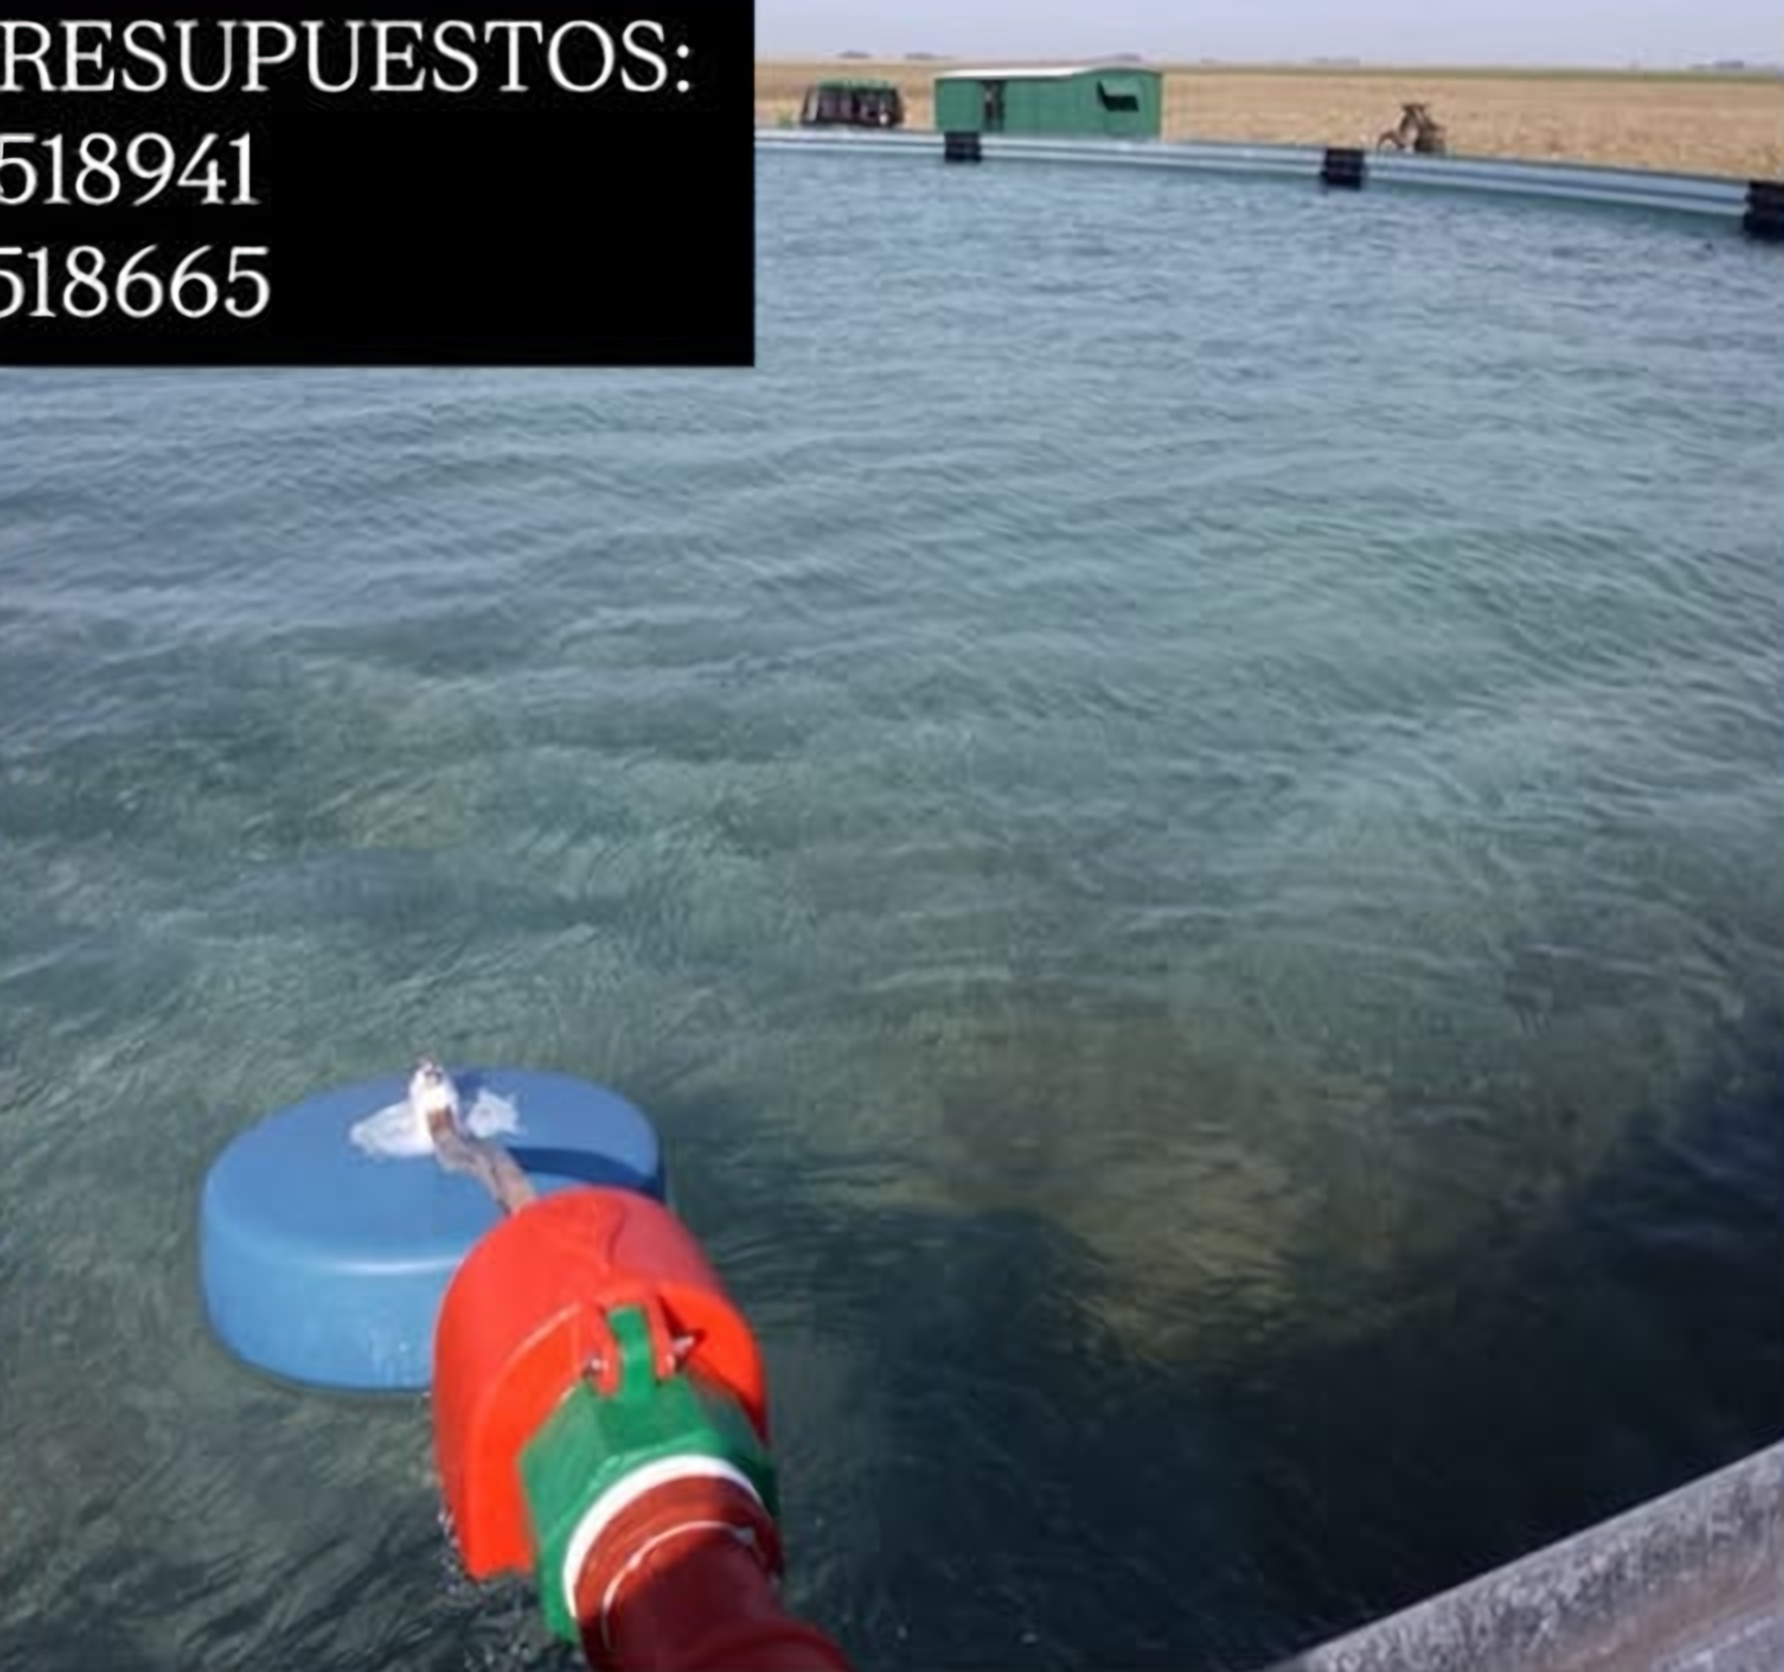
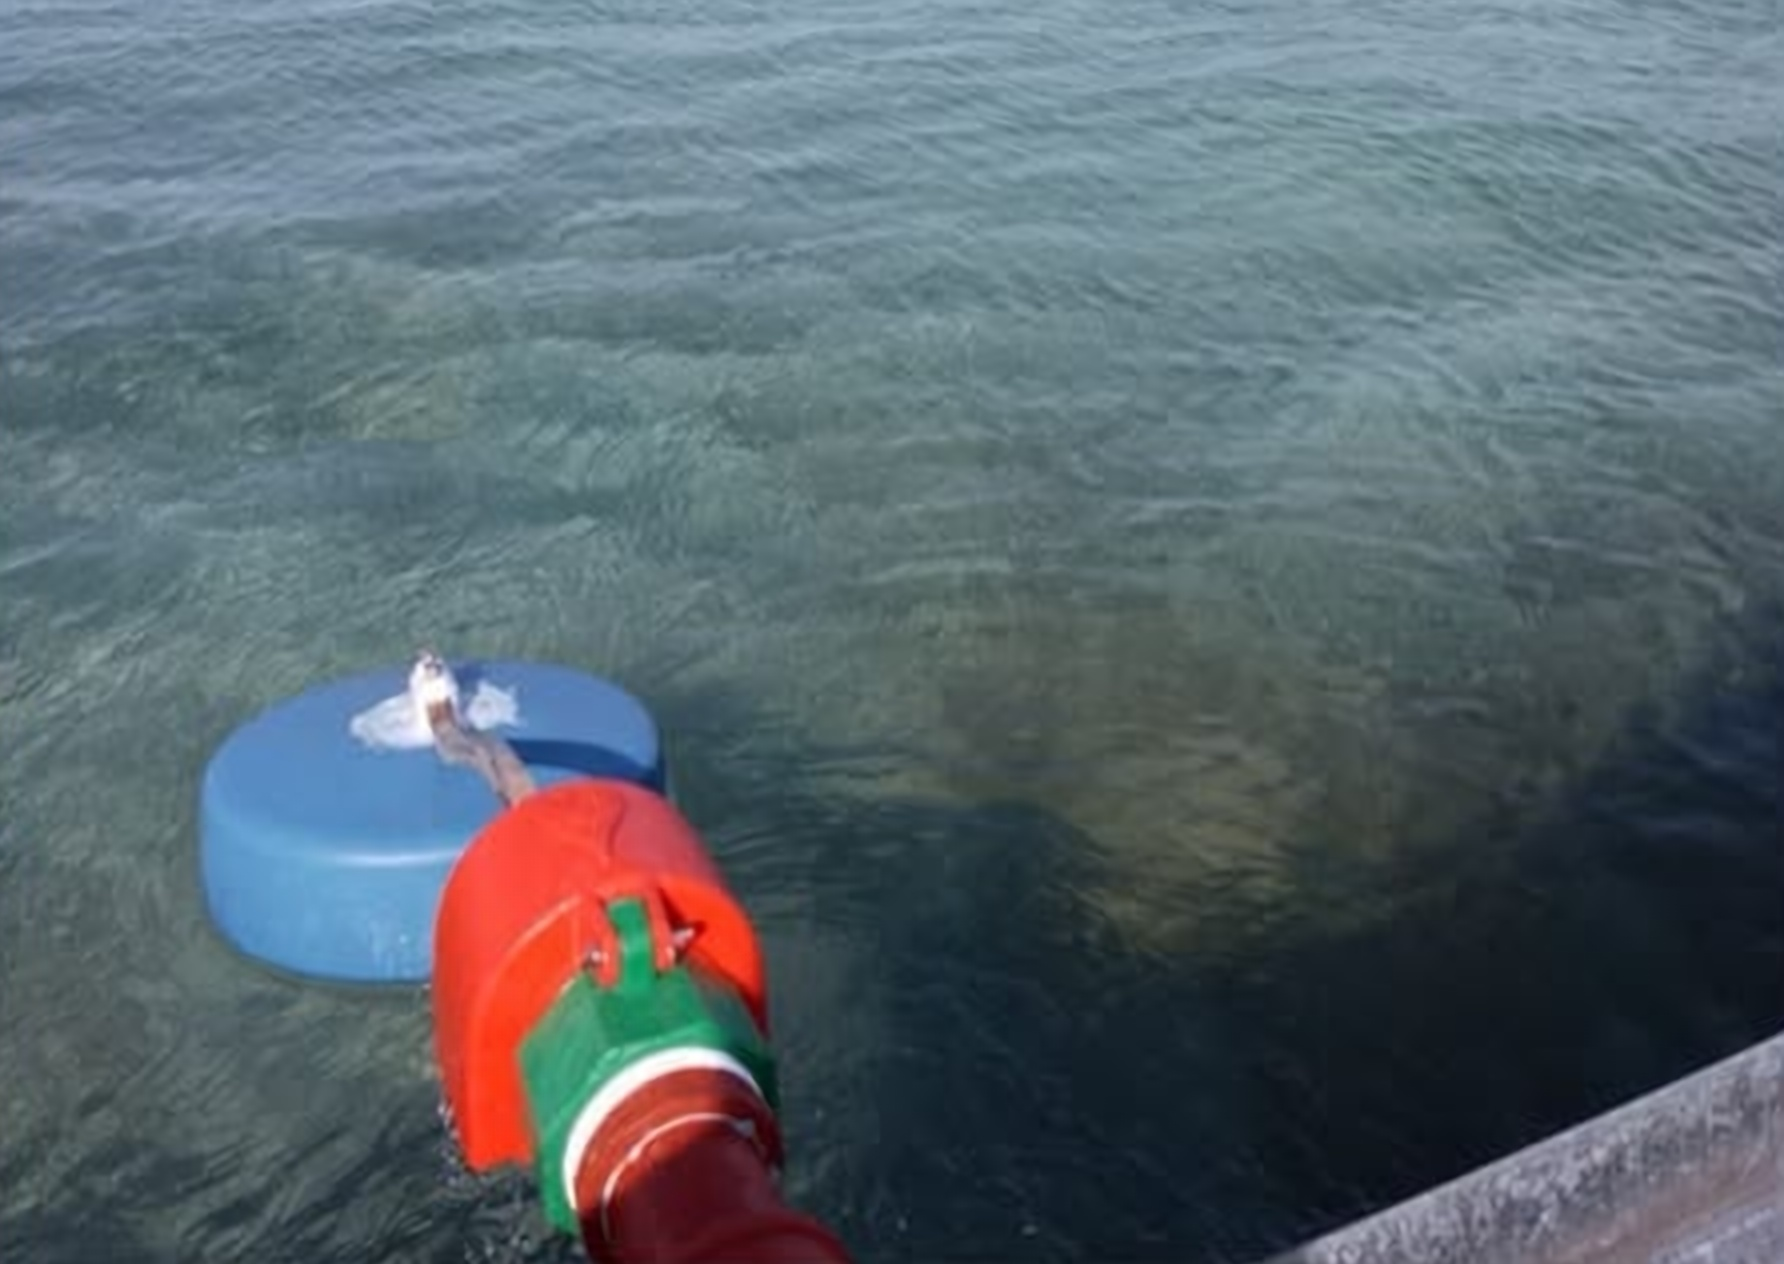
Video v2: fotos completas escaladas con IA y transiciones limpias
Claude-Session: https://claude.ai/code/session_015aPumiBcapQc9Zahey1MkY

diff --git a/flyer-molinero/video/video.html b/flyer-molinero/video/video.html
@@ -184,7 +184,7 @@ const K={}; document.querySelectorAll("[data-k]").forEach(e=>K[e.dataset.k]=e);
 function fit(){
   SC.forEach((s,i)=>{
     const im=document.getElementById("im"+i), cd=document.getElementById("cd"+i);
-    const r=im.naturalWidth/im.naturalHeight, W=936, H=1270;
+    const r=im.naturalWidth/im.naturalHeight, W=984, H=1270;
     let w=W,h=W/r; if(h>H){h=H;w=H*r;}
     cd.style.width=w+"px"; cd.style.height=h+"px";
   });
@@ -215,8 +215,9 @@ window.seek=function(t){
     if(t<a||t>b){sc.style.opacity=0;am.style.opacity=0;return;}
     const pin=eio(clamp((t-a)/X)), pout=eio(clamp((t-(b-X))/X));
     const last=i===SC.length-1;
-    const op=pin*(last?1:(1-pout));
-    sc.style.opacity=op; am.style.opacity=op;
+    // la toma que sale se va primero y recién después entra la nueva (sin doble exposición)
+    const fin=clamp((t-a-X*0.45)/(X*0.55)), fout=clamp((t-(b-X))/(X*0.55));
+    sc.style.opacity=eio(fin)*(last?1:1-eio(fout)); am.style.opacity=pin*(last?1:(1-pout));
     const q=eio(clamp((t-a)/(b-a))), m=s.m;
     // entra desde abajo y sale hacia arriba: la cámara avanza de una toma a la otra
     const y=lerp(m.y[0],m.y[1],q)+(1-pin)*70-(last?0:pout*70);
